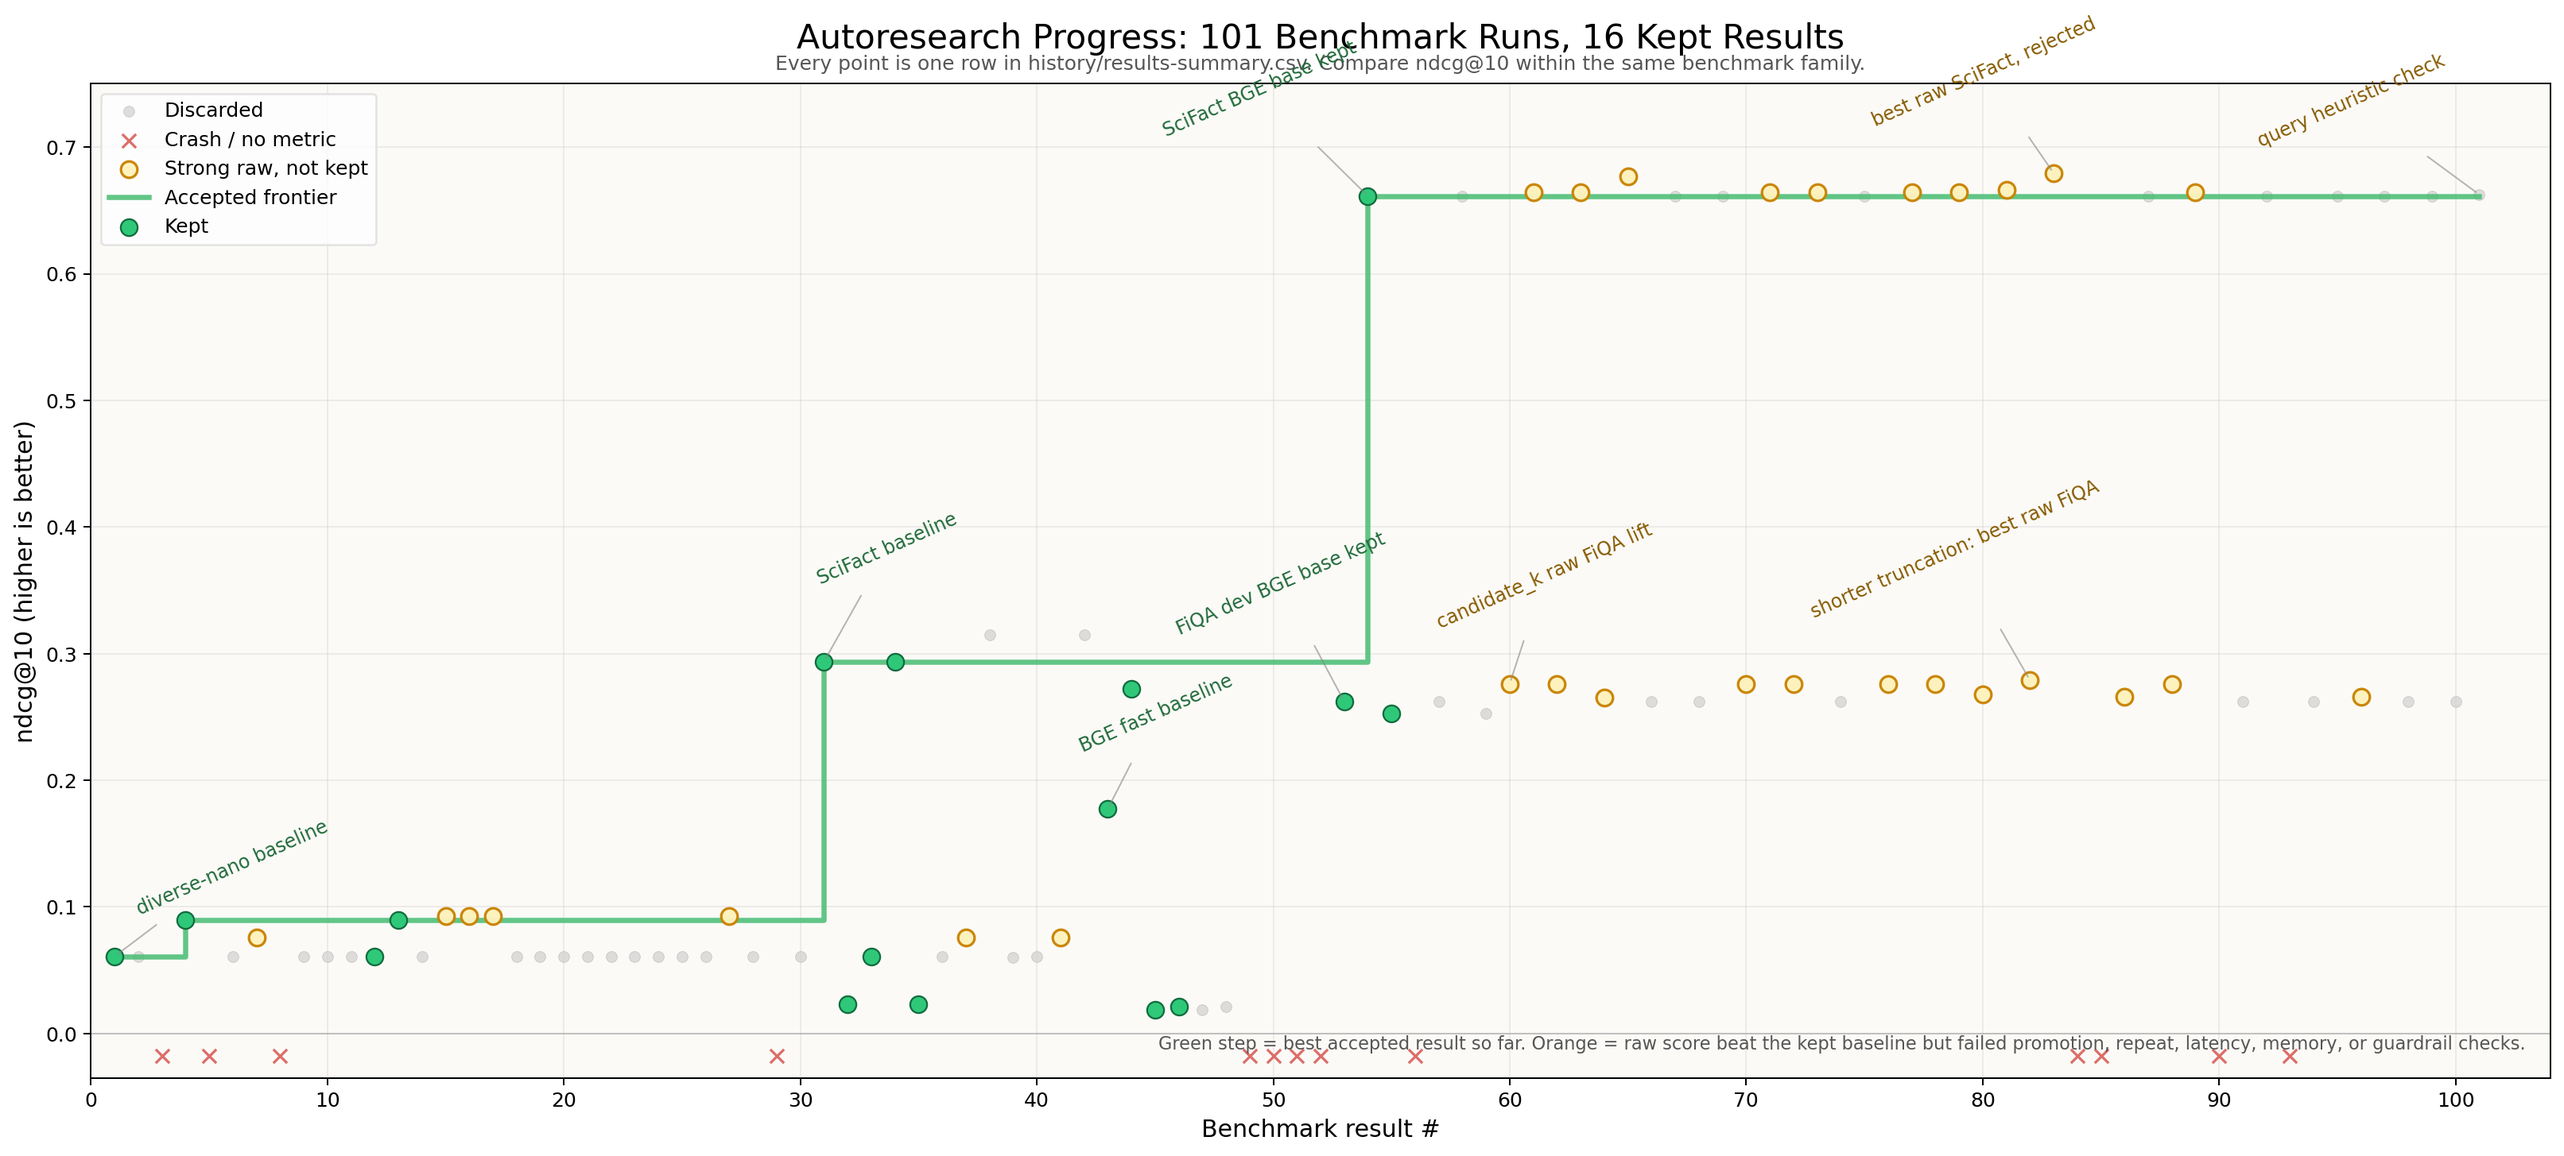
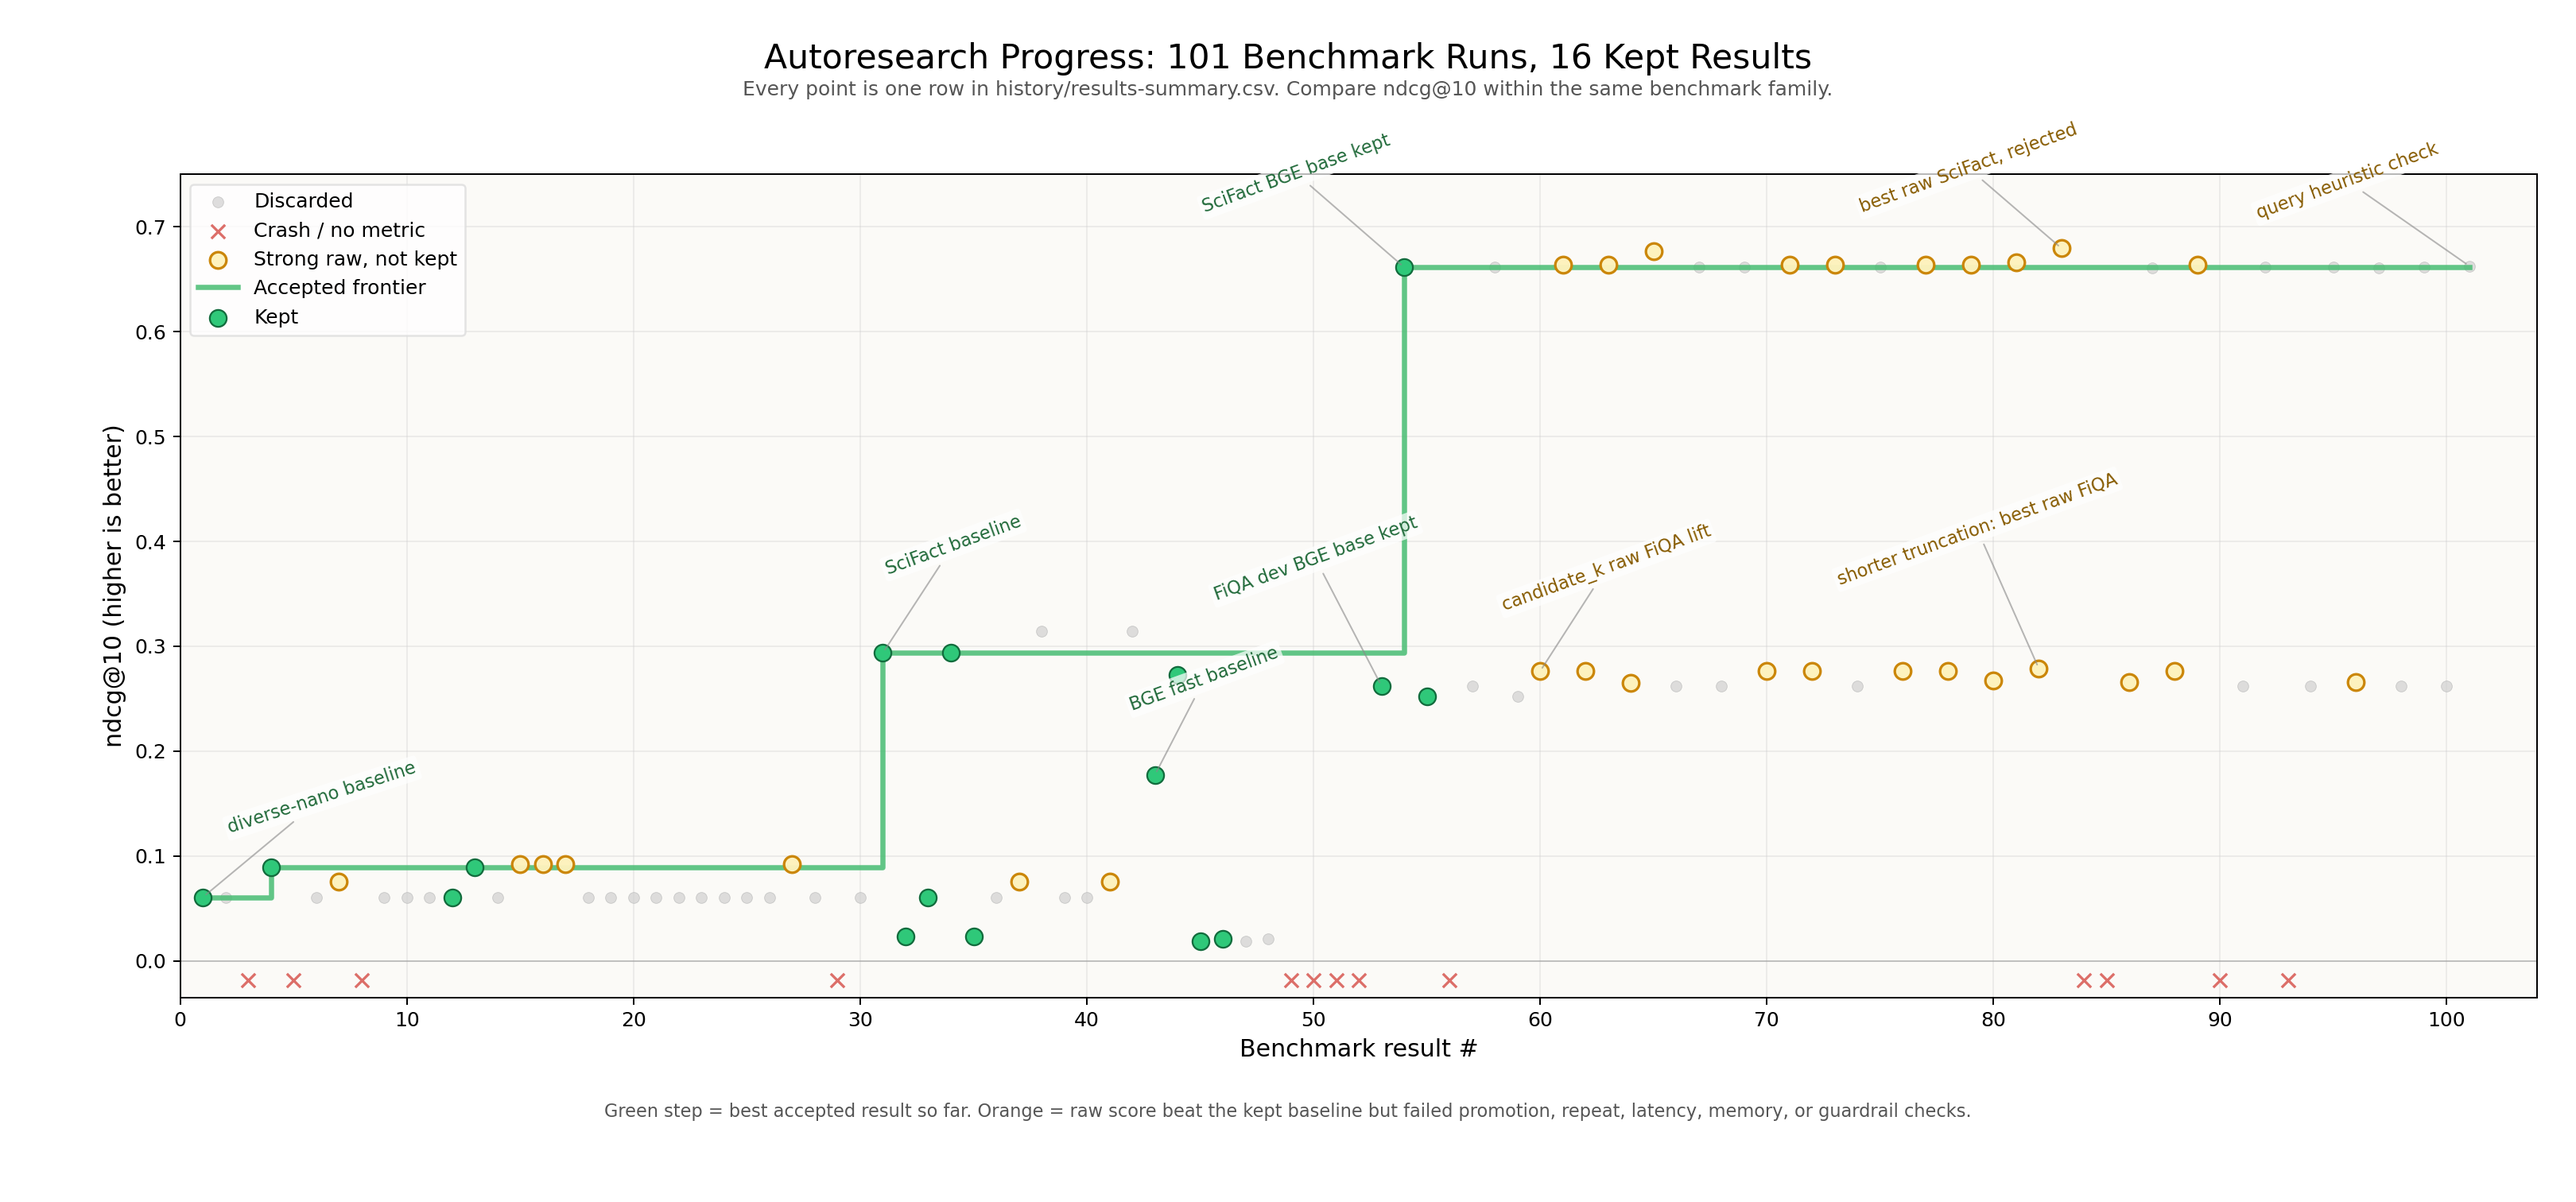
Remove progress chart label overlaps

diff --git a/README.md b/README.md
@@ -31,7 +31,7 @@ xychart-beta
 
 Autoresearch progress across all benchmark results:
 
-![Autoresearch progress across 101 benchmark results](https://raw.githubusercontent.com/suju297/autoresearch-reranking/main/docs/autoresearch-progress-101.png)
+![Autoresearch progress across 101 benchmark results](https://raw.githubusercontent.com/suju297/autoresearch-reranking/main/docs/autoresearch-progress-101.png?v=no-overlap)
 
 The green step is the best accepted result so far. Orange points are raw `ndcg@10` gains that were not kept because promotion, repeat, latency, memory, or guardrail checks failed.
 
